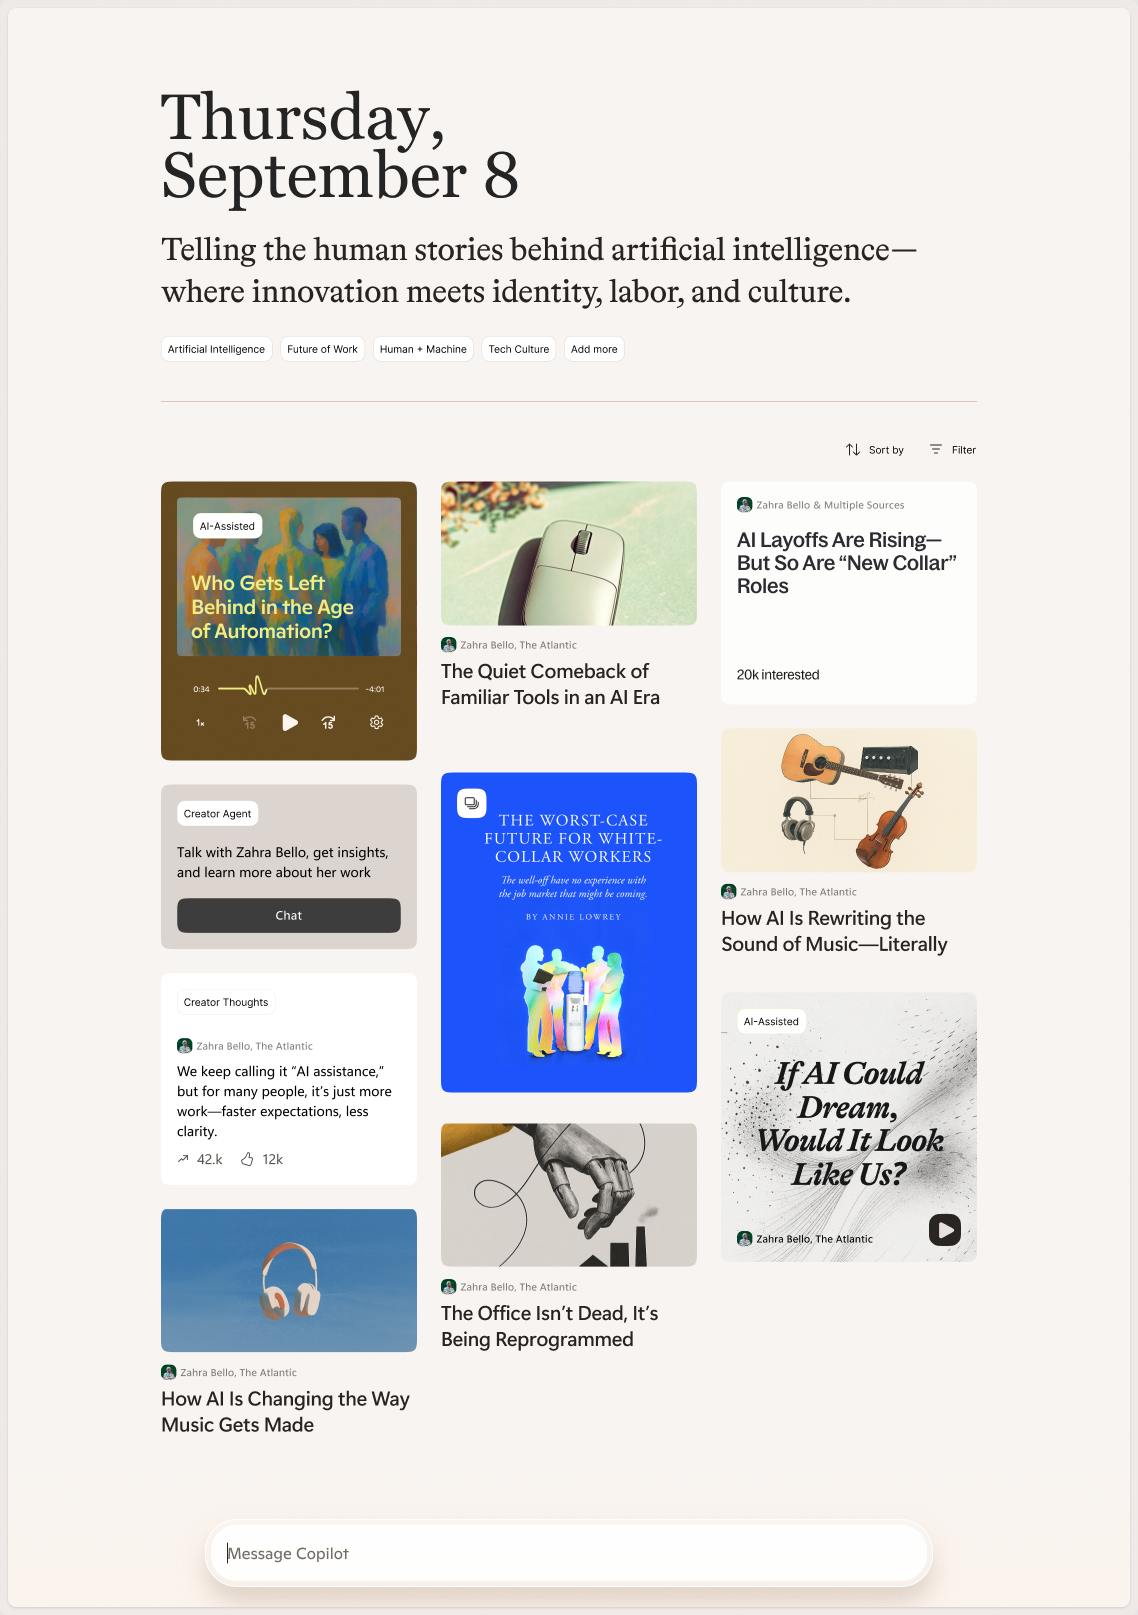
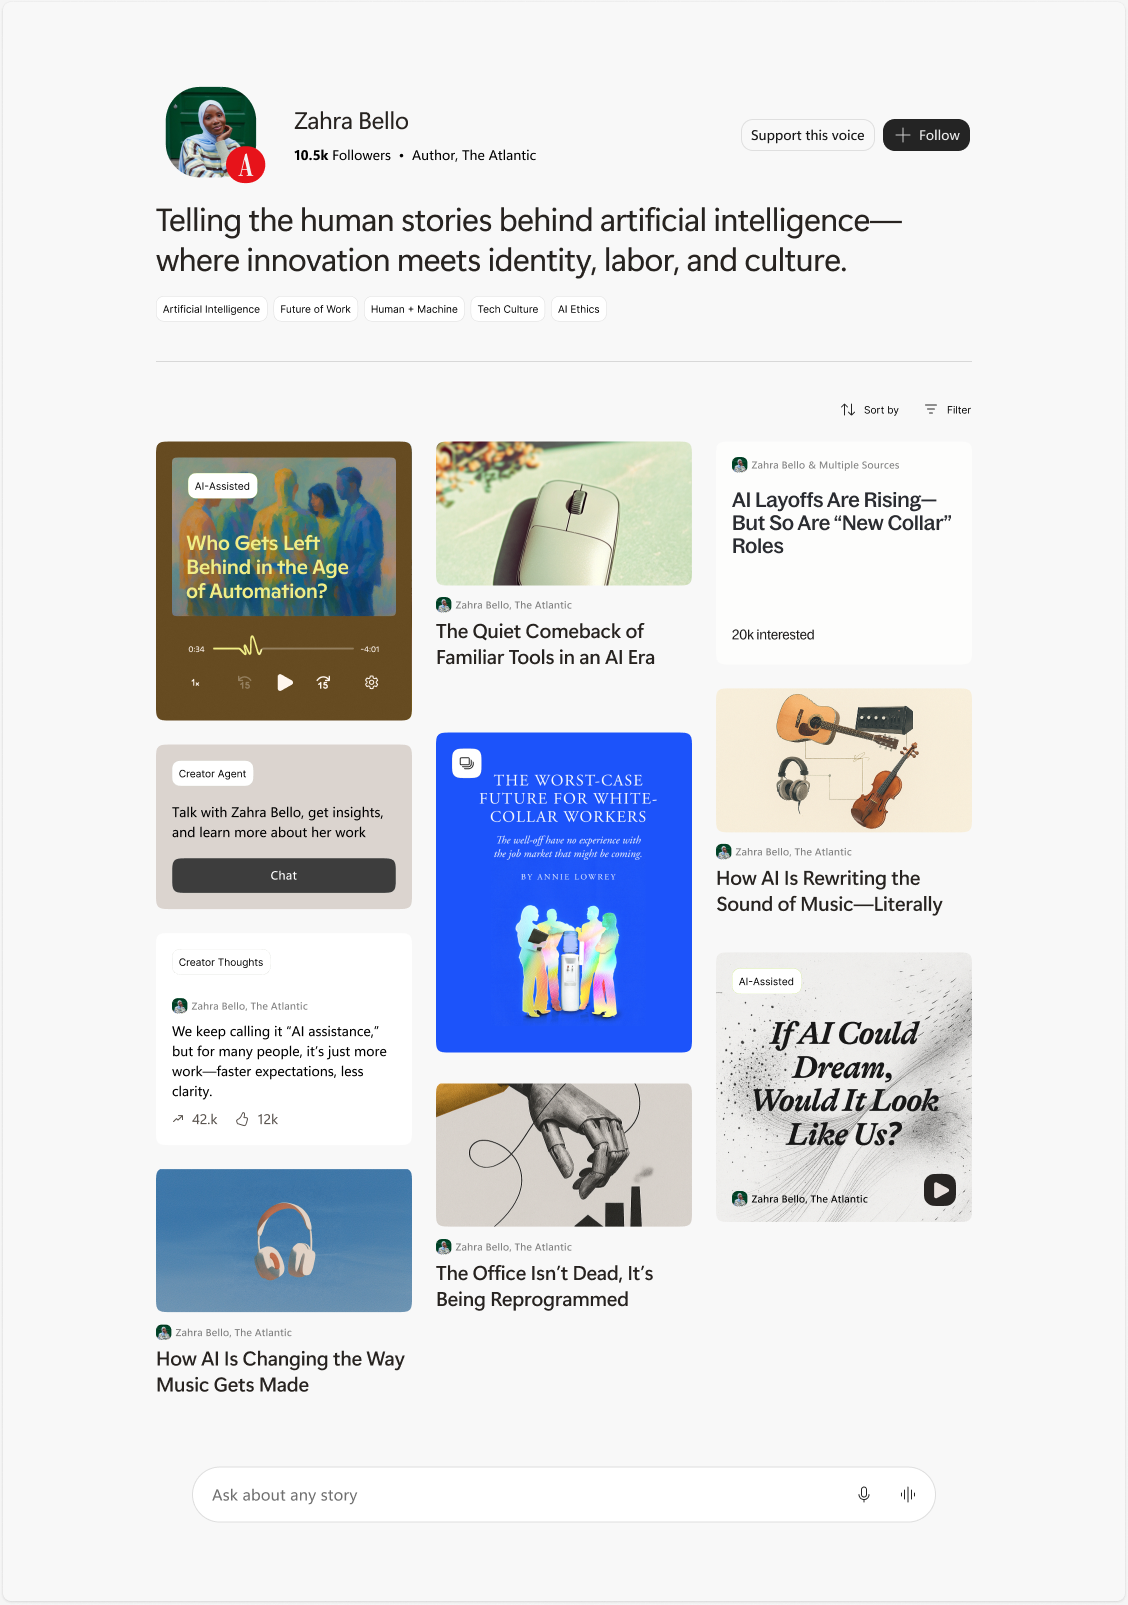
Center Discover on human voices and design principles

diff --git a/src/style.css b/src/style.css
@@ -183,12 +183,21 @@ html:not([data-identity="warm"]) .discover-statement { display: grid; grid-templ
 html:not([data-identity="warm"]) .discover-copy { display: flex; flex-direction: column; gap: clamp(64px, 12vw, 230px); }
 html:not([data-identity="warm"]) .discover-copy h3 { font-size: clamp(28px, 2.3vw, 44px); font-weight: 400; letter-spacing: -.025em; line-height: 1.3; text-wrap: balance; }
 html:not([data-identity="warm"]) .discover-description { display: grid; gap: 24px; max-width: 556px; font-size: clamp(16px, 1.1vw, 21px); line-height: 1.4; }
-html:not([data-identity="warm"]) .discover-brief-design { width: 100%; max-width: 1138px; align-self: start; }
+html:not([data-identity="warm"]) .discover-brief-design { width: 100%; max-width: 1128px; align-self: start; }
 html:not([data-identity="warm"]) .discover-brief-design a { display: block; cursor: zoom-in; }
 
 html:not([data-identity="warm"]) .daily-brief { background: #1e1b1b; color: #fefdfa; }
 html:not([data-identity="warm"]) .daily-brief-screens { display: grid; grid-template-columns: repeat(3, minmax(0, 1fr)); align-items: start; gap: clamp(24px, 4vw, 70px); max-width: 1319px; margin: 0 auto; }
 html:not([data-identity="warm"]) .daily-brief-screen { width: 100%; max-width: 393px; justify-self: center; margin: 0; scroll-snap-align: start; }
+
+html:not([data-identity="warm"]) .discover-principles { background: #502d35; color: #cca39e; }
+html:not([data-identity="warm"]) .discover-principles h3 { max-width: 900px; margin: 20px 0 56px; color: #fefdfa; font-family: var(--serif); font-size: clamp(30px, 3vw, 52px); font-weight: 400; letter-spacing: -.02em; line-height: 1.15; text-wrap: balance; }
+html:not([data-identity="warm"]) .discover-principle-grid { display: grid; grid-template-columns: repeat(3, minmax(0, 1fr)); }
+html:not([data-identity="warm"]) .discover-principle-grid > div { min-height: 260px; padding: 0 clamp(24px, 3vw, 56px) 24px; border-left: 1px solid #9a6f72; }
+html:not([data-identity="warm"]) .discover-principle-grid > div:last-child { border-right: 1px solid #9a6f72; }
+html:not([data-identity="warm"]) .discover-principle-grid dt { font-family: var(--serif); font-size: clamp(36px, 4vw, 64px); font-weight: 400; font-style: italic; line-height: 1.15; text-align: center; }
+html:not([data-identity="warm"]) .discover-principle-grid dd { max-width: 340px; margin: 44px auto 0; font-size: clamp(18px, 1.45vw, 24px); line-height: 1.4; }
+html:not([data-identity="warm"]) .discover-principle-grid .principle-human { color: #ffd0bc; }
 
 html:not([data-identity="warm"])[data-motion="off"] { --scene-overlap: 0px; }
 html[data-motion="off"] .landscape-surface { opacity: 1 !important; mask-image: none; }
@@ -214,6 +223,14 @@ html[data-motion="off"] .press-logo { transition: none; }
   .hero-orbit { top: 65px; right: 9%; width: 18vw; }
   .project h2 { font-size: 6.8vw; }
   .phone img { border-radius: 25px; }
+}
+
+@media (max-width: 760px) {
+  html:not([data-identity="warm"]) .discover-principle-grid { grid-template-columns: 1fr; gap: 36px; }
+  html:not([data-identity="warm"]) .discover-principle-grid > div { min-height: 0; border-right: 0; }
+  html:not([data-identity="warm"]) .discover-principle-grid > div:last-child { border-right: 0; }
+  html:not([data-identity="warm"]) .discover-principle-grid dt { text-align: left; }
+  html:not([data-identity="warm"]) .discover-principle-grid dd { max-width: none; margin-top: 20px; }
 }
 
 @media (max-width: 640px) {

diff --git a/tests/portfolio.test.js b/tests/portfolio.test.js
@@ -178,15 +178,32 @@ test("Discover has the exact personalized-brief title and supplied replacement d
   const story = original.match(/<section class="discover-statement.*?<\/section>/s)[0];
   for (const copy of ["Copilot Discover", "desktop app and One Copilot", "chat history and memory", "current publishers and AI-curated sources", "generative UI model", "adds augments to stories"]) assert.ok(story.includes(copy));
   assert.ok(story.includes('<h3 id="discover-story-title">A daily brief made just for you.</h3>'));
-  assert.ok(story.includes('src="/media/discover-personalized-brief.png" width="1138" height="1615" loading="lazy"'));
+  assert.ok(story.includes('src="/media/discover-personalized-brief.png" width="1128" height="1605" loading="lazy"'));
+  assert.ok(story.includes("Zahra Bello's profile, publisher attribution"));
+  assert.ok(!story.includes("Thursday"));
   assert.ok(story.includes('href="/media/discover-personalized-brief.png" target="_blank" rel="noopener"'));
   assert.ok(!original.includes("Browser prototype pending."));
   assert.ok(!story.includes("discover-video-placeholder"));
   const image = await readFile(new URL("public/media/discover-personalized-brief.png", root));
[2 lines of base64/hex data omitted]
   assert.ok(!story.includes("<video"));
   assert.equal([...original.matchAll(/src="\/media\/discover-desktop.png"/g)].length, 1);
   assert.ok(!original.match(/id="ai-content".*?<\/section>/s)[0].includes("Copilot Discover"));
+});
+
+test("Discover principles are editable, human-centered and separate from the visuals-only slide", () => {
+  const principles = original.match(/<section class="discover-principles.*?<\/section>/s)[0];
+  assert.ok(principles.includes("Design principles"));
+  assert.ok(principles.includes("An agentic experience centered on human voices."));
+  assert.deepEqual([...principles.matchAll(/<dt>(.*?)<\/dt>/g)].map(([, text]) => text), ["adaptable", "human", "trusted"]);
+  assert.deepEqual([...principles.matchAll(/<dd>(.*?)<\/dd>/g)].map(([, text]) => text), [
+    "AI transforms any content into the format, length, and knowledge level you need right now",
+    "Every story is rooted in real voices, with clear provenance so you always know who’s behind it.",
+    "Your agent earns your trust with every story it delivers.",
+  ]);
+  assert.ok(principles.includes('class="principle-human"'));
+  assert.ok(!/<img|<video|<button|class="section-number"/.test(principles));
+  assert.match(original, /<section class="daily-brief.*?<\/section>\s*<section class="discover-principles/s);
 });
 
 test("Daily Brief groups all three actual Figma mocks in one visuals-only section", async () => {

diff --git a/index.html b/index.html
@@ -121,7 +121,7 @@
         </div>
         <figure class="discover-brief-design">
           <a href="/media/discover-personalized-brief.png" target="_blank" rel="noopener" aria-label="View the personalized daily brief design at full size">
-            <img src="/media/discover-personalized-brief.png" width="1138" height="1615" loading="lazy" alt="Personalized Copilot daily brief for Thursday, September 8, with topic chips, a three-column mix of articles, podcast and AI-assisted content, and the Message Copilot composer." />
+            <img src="/media/discover-personalized-brief.png" width="1128" height="1605" loading="lazy" alt="Copilot Discover creator-led brief with Zahra Bello's profile, publisher attribution, topic chips, a mixed-media feed and the Ask about any story composer." />
           </a>
         </figure>
       </section>
@@ -138,6 +138,25 @@
             <img src="/media/discover-daily-brief-agents.png" width="393" height="852" loading="lazy" alt="Copilot Discover Your agents screen with AI Daily News, Market Watch and Local family events." />
           </figure>
         </div>
+      </section>
+
+      <section class="discover-principles section-pad" id="discover-principles" aria-labelledby="discover-principles-title">
+        <p class="eyebrow">Design principles</p>
+        <h3 id="discover-principles-title">An agentic experience centered on human voices.</h3>
+        <dl class="discover-principle-grid">
+          <div>
+            <dt>adaptable</dt>
+            <dd>AI transforms any content into the format, length, and knowledge level you need right now</dd>
+          </div>
+          <div class="principle-human">
+            <dt>human</dt>
+            <dd>Every story is rooted in real voices, with clear provenance so you always know who’s behind it.</dd>
+          </div>
+          <div>
+            <dt>trusted</dt>
+            <dd>Your agent earns your trust with every story it delivers.</dd>
+          </div>
+        </dl>
       </section>
 
       </div>

diff --git a/README.md b/README.md
@@ -33,6 +33,8 @@ Edge Discover has a native, user-controlled video followed by the authorized Pro
 
 Directly after the personalized-brief presentation, one visuals-only Daily Brief slide remains inside the Copilot Discover case study. It presents all three actual 393×852 screens together in source order: Welcome, Feed and Your agents. There is no surrounding heading, narrative or caption; original UI text remains within the mocks. Desktop shows all three aligned side by side, never larger than native size. At 1000px and below, the same three complete screens form a keyboard-focusable, touch-scrollable horizontal group. No alternate mock, invented device bezel, rounded crop, automatic carousel or fake controls are added. The existing deep link `#daily-brief-title` targets the labeled section.
 
+The same case study closes with an editable “Design principles” treatment: adaptable, human and trusted. The supplied wording is preserved verbatim as design intent, not new measured results. A burgundy canvas, italic Georgia terms and fine vertical rules follow the supplied reference; human voices and clear provenance are emphasized centrally in peach. Muted outer text still has 5.26:1 contrast, while the central text has 8.49:1. The three columns become a single readable column at 760px and below. This is a separate section after the phone gallery, never text over or inside the visuals-only slide.
+
 The About biography is preserved apart from the requested current-role sentence and the authorized entrepreneur/fundraising history, which matches the opening excerpt. The original's four user-supplied Content Intelligence figures are 300 million daily desktop users, 50 million mobile users, $1.4 billion annual revenue and 4,000 publishers. They describe ecosystem scale, not attributable personal outcomes. The user expressly confirmed the historical claim: “Leading the largest transformation of MSN in its 20-year history.” It refers to MSN, not the age of the Content Intelligence team. Tab 2 retains its previous biography, narrative and two MSN metrics.
 
 Project numbers use one shared left rail; later headings and media align on the neighboring content rail. The Discover cover uses a wider screenshot for legibility. The hero introduction aligns with the name. The second section places the Microsoft AI heading, a readable single Content Intelligence paragraph elaborating the MSN transformation, and four scale figures over the supplied clip, with a contrast overlay. Redundant under-image source/design-preview captions are removed; descriptive alt text and honest missing-media status remain.
@@ -61,7 +63,7 @@ The supplied election MP4 has been retained locally for a later media pass, but 
 
 The corrected Daily Brief reference is `voFVxFCJH528ss63gDWBpi` node `3:21484`, an opacity-zero metadata layer inside Welcome screen `3:21461`. Its enclosing board `3:21460` was reinspected and contains exactly the requested related trio: “Original Welcome · small logo only,” “Feed · identity + one line only” and “Your agents · cardless / interactive.” All three assets are lossless 393×852 crops of the same inspected 1390×1012 board render, starting at (0, 140), (463, 140) and (926, 140); pixel comparison verifies each crop against the source. Full screen framing, zero corner radius and native navigation are preserved. Board notes and presentation labels are omitted. The older `discover-feed.png` and `discover-mobile-feed.png` substitutions are not rendered in this section.
 
-The replacement design is `X6HJ8CzCbnnVsPd82jHHwK` node `651:51395`, “old michelle,” inspected as a screenshot and full layer tree. Its unchanged 1138×1615 export is `discover-personalized-brief.png`: date and editorial introduction, topic chips, three-column mixed-media feed and bottom composer. The original framing is preserved without cropping, added rounding or a simulated working interface. The surrounding presentation stacks at 1000px and below, and a full-size image link keeps fine UI details available on smaller screens.
+The current replacement design is `voFVxFCJH528ss63gDWBpi` node `16:104702`, “Page,” inspected as a screenshot and full layer tree. It replaces the entire earlier Thursday/September 8 mock, not an article image within it. Its unchanged export is `discover-personalized-brief.png` (1128×1605, including the frame's rendered edge/shadow; the Figma page is 1122×1599). The creator-led design shows Zahra Bello's profile, publisher attribution, Support this voice/Follow actions, topic chips, the three-column mixed-media feed and an “Ask about any story” composer. Original framing is preserved without cropping, added rounding or simulated working controls. The surrounding presentation still has the title “A daily brief made just for you.”, stacks at 1000px and below, and retains a full-size image link for reading fine details on smaller screens.
 
 The frames in `voFVxFCJH528ss63gDWBpi` were reinspected for the Discover story: `2:18424` is an almost-empty `#1e1b1b` canvas, adapted into its readable dark screenshot cover; `1:12046` supplied the `#fefdfa` background and narrow left description rail for the consumer story. Its former orange panel is now replaced by the user-requested design above. Proprietary Verdana Pro AIX/Ionic MT Std text is adapted with existing DM Sans/Georgia, not downloaded font binaries. No brandbook labels or prose are copied. The earlier `1:11966` supplied the second scene's still landscape. The `The Edit` screenshot continues to guide the opening's optical composition.
 
